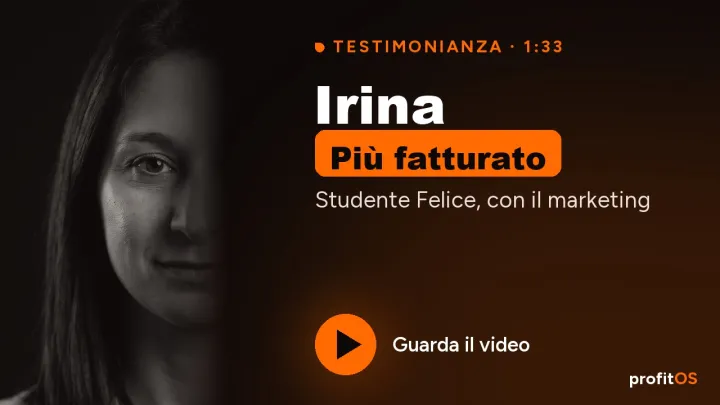
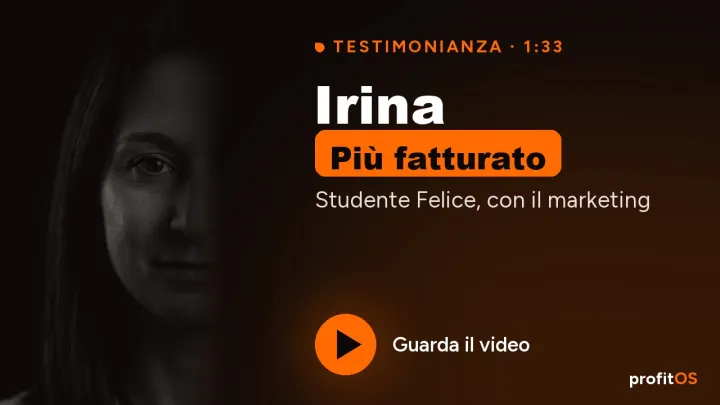
Frecce rullo community; copertine scurite

diff --git a/index.html b/index.html
@@ -186,8 +186,13 @@
 .pos .storie{position:relative;margin-top:36px;overflow:hidden;
   -webkit-mask-image:linear-gradient(90deg,transparent,#000 4%,#000 96%,transparent);
   mask-image:linear-gradient(90deg,transparent,#000 4%,#000 96%,transparent)}
-.pos .rullo{display:flex;gap:14px;width:max-content;
-  animation:pos-scorri 80s linear infinite}
+.pos .rullo{display:flex;gap:14px;width:max-content;will-change:transform}
+.pos .storie-box{position:relative}
+.pos .sfreccia{position:absolute;top:50%;transform:translateY(-50%);width:44px;height:44px;border-radius:50%;border:1px solid rgba(255,107,0,.5);background:rgba(15,11,9,.92);color:#fff;cursor:pointer;
+  font-size:12px;display:grid;place-items:center;padding:0;z-index:3;box-shadow:0 8px 24px rgba(0,0,0,.5);transition:background .2s;-webkit-user-select:none;user-select:none;touch-action:none}
+.pos .sfreccia.sx{left:-12px}.pos .sfreccia.dx{right:-12px}
+.pos .sfreccia:hover{background:var(--acc);color:var(--bg)}.pos .sfreccia:active{transform:translateY(-50%) scale(.92)}
+@media (max-width:900px){.pos .sfreccia.sx{left:6px}.pos .sfreccia.dx{right:6px}}
 .pos .storia{position:relative;flex:0 0 17.5rem;width:17.5rem;border:1px solid var(--bor);
   border-radius:16px;overflow:hidden;background:var(--s3)}
 .pos .storia video{display:block;width:100%;aspect-ratio:9/16;object-fit:cover}
@@ -1325,7 +1330,10 @@
   <h2>Chi c'è dentro profit<span class="os">OS</span>, adesso.</h2>
   <p class="intro">Non un elenco di loghi: le persone che stiamo seguendo adesso, con i loro
   contenuti e i loro profili.</p>
-  <div class="storie"><div class="rullo" id="pos-storie"></div></div>
+  <div class="storie-box">
+    <div class="storie"><div class="rullo" id="pos-storie"></div></div>
+    <button type="button" class="sfreccia sx" id="pos-storie-sx" aria-label="Scorri indietro">&#9664;</button><button type="button" class="sfreccia dx" id="pos-storie-dx" aria-label="Scorri avanti">&#9654;</button>
+  </div>
 </div></div>
 
 <div class="sez" id="pos-dove"><div class="wide">
@@ -1769,6 +1777,40 @@
       '<span class="cat">' + s[2] + "</span></div></article>";
   };
   $("pos-storie").innerHTML = STORIE.map(carta).join("") + STORIE.map(carta).join("");
+  /* il rullo scorre via JS: le frecce lo spingono (click = una card, pressione lunga = accelera); col mouse sopra si ferma */
+  (function () {
+    var rullo = $("pos-storie"), sx = $("pos-storie-sx"), dx = $("pos-storie-dx"); if (!rullo || !sx || !dx) return;
+    var x = 0, base = matchMedia("(prefers-reduced-motion: reduce)").matches ? 0 : 62, fattore = 1, verso = 1, spinta = 0, spintaVerso = 1, fermo = false, inVista = false, gira = false, ultimo = 0;
+    function passo(t) {
+      if (!inVista) { gira = false; return; }
+      var dt = Math.min(0.05, (t - ultimo) / 1000) || 0; ultimo = t;
+      var v = (fermo && fattore === 1) ? 0 : base * fattore * verso, extra = 0;
+      if (spinta > 0) { extra = Math.min(spinta, 1100 * dt); spinta -= extra; extra *= spintaVerso; }
+      var meta = rullo.scrollWidth / 2;
+      if (meta) { x = (((x + v * dt + extra) % meta) + meta) % meta; rullo.style.transform = "translateX(" + (-x).toFixed(1) + "px)"; }
+      requestAnimationFrame(passo);
+    }
+    function avvia() { if (!gira) { gira = true; ultimo = performance.now(); requestAnimationFrame(passo); } }
+    new IntersectionObserver(function (e) { e.forEach(function (k) { inVista = k.isIntersecting; if (inVista) avvia(); }); }, { rootMargin: "120px 0px" }).observe(rullo);
+    rullo.addEventListener("mouseenter", function () { fermo = true; });
+    rullo.addEventListener("mouseleave", function () { fermo = false; });
+    function freccia(btn, direzione) {
+      var timer = null, lunga = false;
+      btn.addEventListener("pointerdown", function (e) {
+        e.preventDefault(); try { btn.setPointerCapture(e.pointerId); } catch (err) {} lunga = false;
+        timer = setTimeout(function () { lunga = true; fattore = 5; verso = direzione; avvia(); }, 220);
+      });
+      function lascia() {
+        clearTimeout(timer);
+        if (lunga) { fattore = 1; verso = 1; }
+        else { var carta = rullo.firstElementChild; spinta += (carta ? carta.getBoundingClientRect().width : 280) + 14; spintaVerso = direzione; avvia(); }
+        lunga = false;
+      }
+      btn.addEventListener("pointerup", lascia); btn.addEventListener("pointercancel", lascia);
+      btn.addEventListener("contextmenu", function (e) { e.preventDefault(); });
+    }
+    freccia(dx, 1); freccia(sx, -1);
+  })();
   (function () {
     var io = new IntersectionObserver(function (voci) {
       voci.forEach(function (v) {
